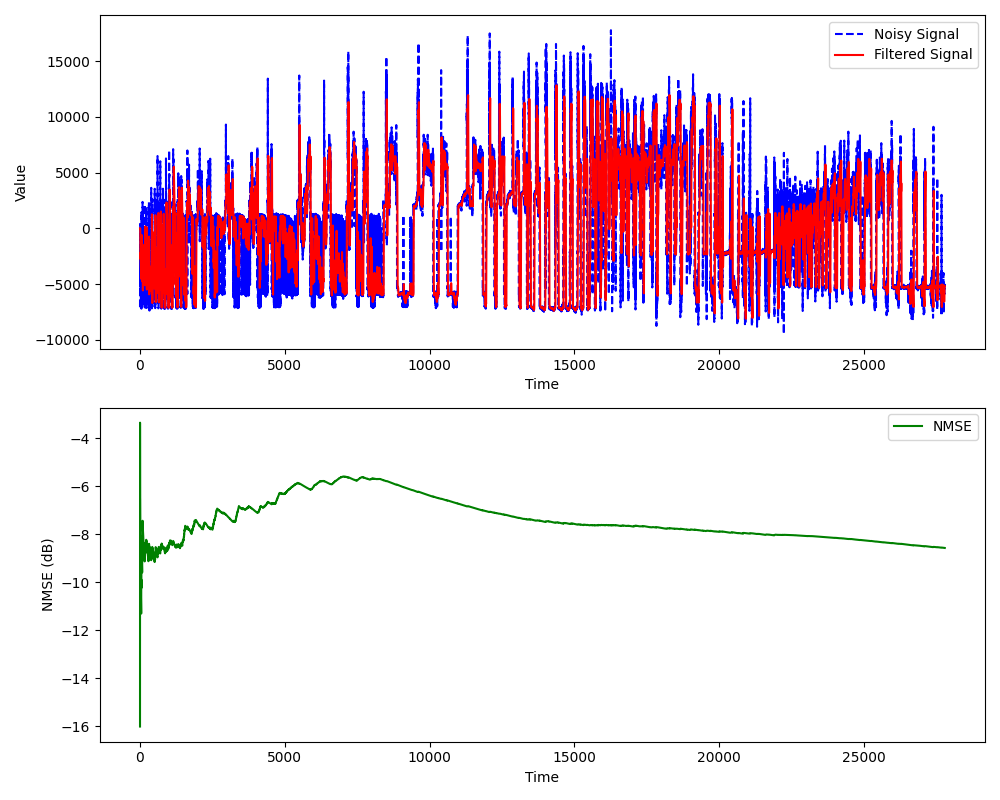
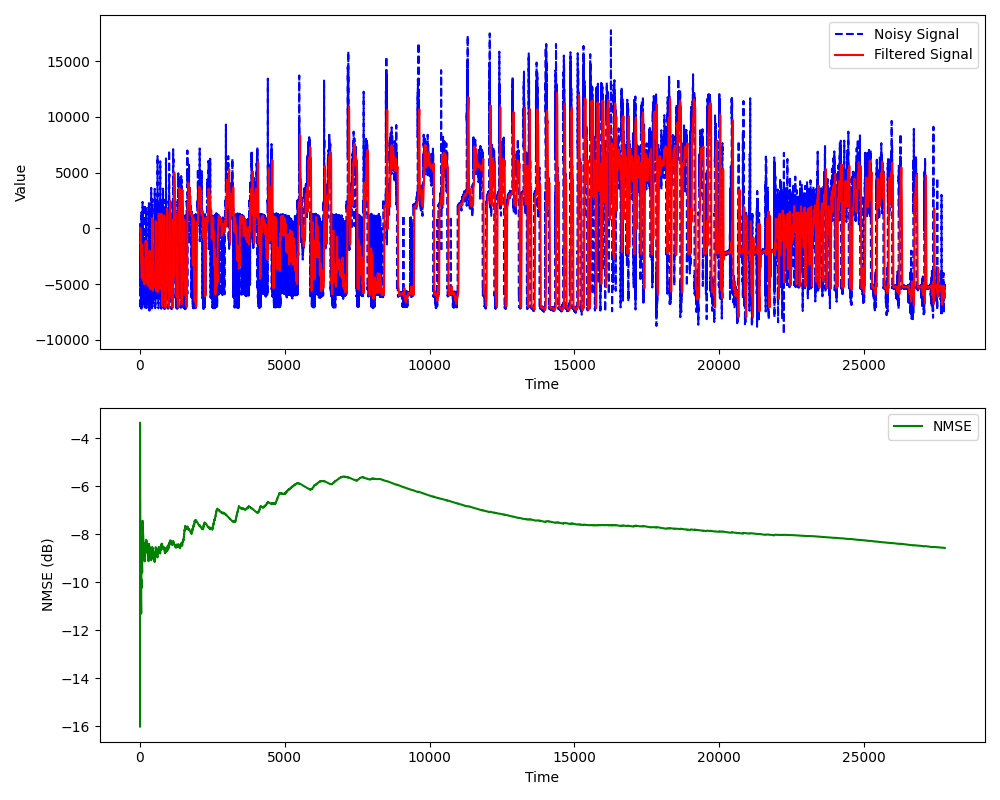
descição dos codigos

Changed region(s): [[0.124, 0.125, 0.961, 0.4062]]

diff --git a/Exemplo Kalman 1/teste com dados/potencialização de filtro.py b/Exemplo Kalman 1/teste com dados/potencialização de filtro.py
@@ -93,7 +93,7 @@ def calculate_mse(filtered, rw, numStates):
 
 def run_kalman_filter(noisy_signal, numStates):
     seq = fibonacci(2000)
-    filtered, nmse_values = kfilter(noisy_signal, numStates, seq, iterations=10)
+    filtered, nmse_values = kfilter(noisy_signal, numStates, seq, iterations=20)
     mse = calculate_mse(filtered, noisy_signal, numStates)
     
     return filtered, nmse_values, mse

diff --git a/Exemplo Kalman 1/teste com dados/teste.py b/Exemplo Kalman 1/teste com dados/teste.py
@@ -58,6 +58,7 @@ def plot(original, filtered, nmse_values):
     plt.legend()
 
     plt.tight_layout()
+    plt.savefig('Exemplo Kalman 1/teste com dados/teste csv.png')
     plt.show()
 
 def kfilter(rw, numStates, seq):

diff --git a/Exemplo Kalman 1/teste com dados/README.md b/Exemplo Kalman 1/teste com dados/README.md
@@ -1,0 +1,40 @@
+### README.md
+
+# Experimentos com Filtro de Kalman usando Dados de Acelerômetro
+
+Este repositório contém dois experimentos distintos utilizando um Filtro de Kalman com pesos baseados na sequência de Fibonacci. Os experimentos aplicam o filtro a dados reais obtidos de um acelerômetro, avaliando a eficácia da filtragem de ruído e a precisão da estimativa do sinal original.
+
+## Descrição dos Experimentos
+
+### Experimento 1: Filtro de Kalman Padrão
+
+#### Modificações
+
+1. **Dados de Entrada**: Utilizamos dados reais de um acelerômetro, extraídos da coluna `aX` de um arquivo CSV.
+2. **Número de Estados**: Definido como 20.
+3. **Implementação**: Aplicamos o filtro de Kalman padrão com a sequência de Fibonacci para ponderação dos estados.
+
+#### Resultados
+
+![Resultado do Filtro de Kalman Padrão](/Exemplo%20Kalman%201/teste%20com%20dados/teste%20csv.png)
+
+Neste experimento, o filtro de Kalman foi capaz de reduzir significativamente o ruído presente no sinal original do acelerômetro, resultando em uma estimativa mais suave e precisa.
+
+### Experimento 2: Filtro de Kalman Potencializado
+
+#### Modificações
+
+1. **Dados de Entrada**: Utilizamos os mesmos dados reais de um acelerômetro, extraídos da coluna `aX` de um arquivo CSV.
+2. **Número de Estados**: Aumentado para 200.
+3. **Iterações**: O filtro foi aplicado iterativamente 20 vezes para melhorar a filtragem, embora isso tenha levado a uma redução no desempenho devido ao maior custo computacional.
+
+#### Resultados
+
+![Resultado do Filtro de Kalman Potencializado](/Exemplo%20Kalman%201/teste%20com%20dados/teste%20potencializado%20csv.png)
+
+Apesar da filtragem mais potente, a quantidade de iterações e o aumento no número de estados resultaram em uma redução no desempenho do filtro, com um custo computacional mais alto e uma menor precisão na estimativa do sinal.
+
+## Conclusão
+
+Ambos os experimentos demonstram a eficácia do filtro de Kalman na redução do ruído de sinais de acelerômetro. A escolha entre um filtro padrão e um potencializado depende do equilíbrio desejado entre a precisão da filtragem e o custo computacional.
+

diff --git a/Exemplo Kalman 1/README.md b/Exemplo Kalman 1/README.md
@@ -188,6 +188,10 @@ A utilização da sequência de Fibonacci no cálculo dos pesos do filtro de Kal
 
 Abaixo está um exemplo do Filtro de Kalman aplicado a um sinal de teste:
 
+```math
+\text{sinal}(n) = \sqrt{n} + \sin\left(\frac{2 \pi \cdot 500 \cdot n}{8000}\right)
+```
+
 ![Resultado do Filtro de Kalman](/Exemplo%20Kalman%201/teste%20simulação%201.png)
 
 Para executar o Filtro de Kalman:
